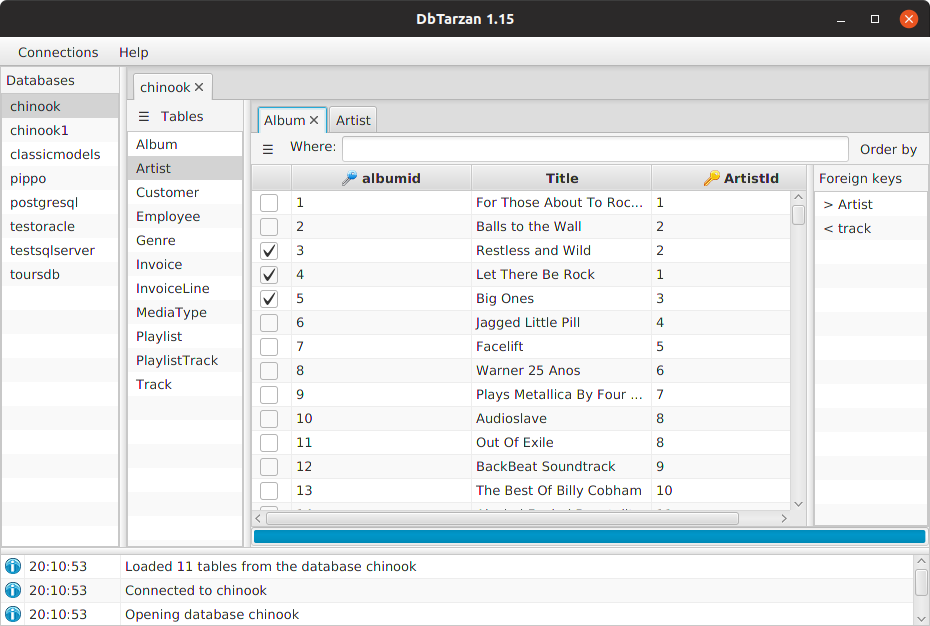
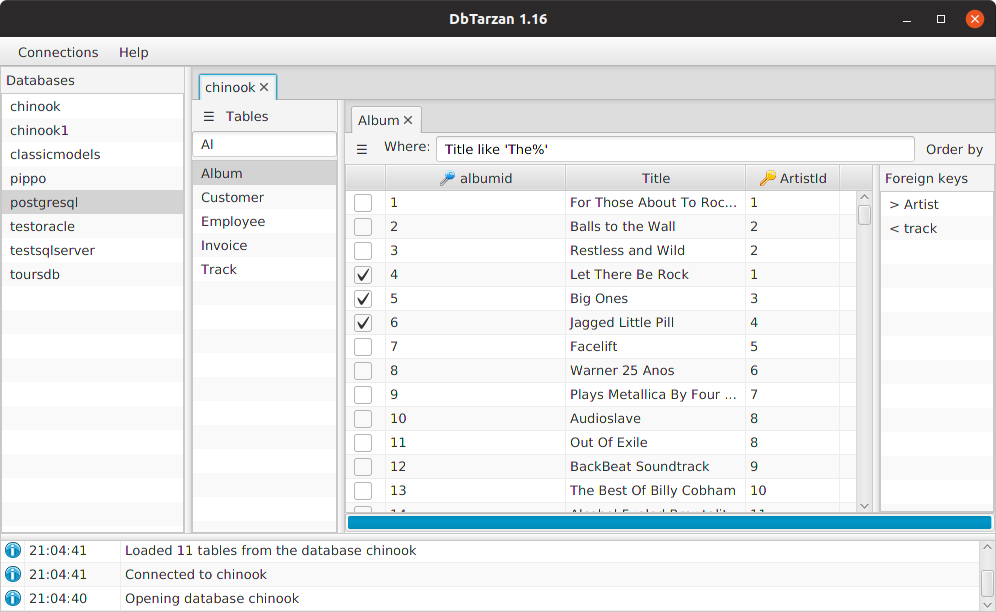
Renewed usage and gui structure documentation

diff --git a/docs/GUI-Structure.md b/docs/GUI-Structure.md
@@ -13,11 +13,12 @@ categories: [GUI]
 
 1. The **databases** list, as read from the configuration. When you open a database, a new database tab is added.
 2. The **tables** list for the selected database. When you open a table, a new [table tab](Tags) is added.
-3. The **table rows** in a table tab. 
-4. The **foreign keys** in a table tab. Selecting some table rows and double-clicking in a [foreign key](Tags), a new table tab is added with the rows in the related table connected to the selected rows.
-5. The **where clause** in a table tab. Writing an SQL where clause a new table tab is added with the result of filtering the original table with the clause.
-6. The **order by** in a table tab. Choosing the [order-by](Order-By) column or columns, a new table tab is added with the result of sorting the rows of the original table with the order by clause.
-7. The **errors** that are displayed when something goes wrong, together with other log: wrong where clause, problems connecting to a database. 
+3. The **tables filter** filters the names in the tables list, showing only the ones with names and columns matching the filter text. 
+4. The **table rows** in a table tab. 
+5. The **foreign keys** in a table tab. Selecting some table rows and double-clicking in a [foreign key](Tags), a new table tab is added with the rows in the related table connected to the selected rows.
+6. The **where clause** in a table tab. Writing an SQL where clause a new table tab is added with the result of filtering the original table with the clause.
+7. The **order by** in a table tab. Choosing the [order-by](Order-By) column or columns, a new table tab is added with the result of sorting the rows of the original table with the order by clause.
+8. The **errors** that are displayed when something goes wrong, together with other log: wrong where clause, problems connecting to a database. 
 
 Using the table tab menu the [Vertical row view](Vertical-row-view) can be displayed on the rigth side of a table.
 

diff --git a/docs/Usage.md b/docs/Usage.md
@@ -36,3 +36,5 @@ DbTarzan shows the original rows in the table filtered with the where clause:
 ![Where Result](images/whereresult.png)
 
 Every time you follow a foreign key or filter the table with a where clause DbTarzan opens a new tab leaving the original one immutated.
+
+You can also order the rows of the table, using the [Order By](Order-By) menu,
